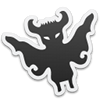
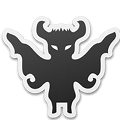
better bg

Changed region(s): [[0.0, 0.09, 1.0, 1.0], [0.99, 0.24, 1.0, 0.27]]

diff --git a/css/chupacabras.css b/css/chupacabras.css
@@ -16,8 +16,8 @@ html, body {
 
 ._contents {
 background:
-   url(../img/chupacabra_1.png) no-repeat 100% 103%,
-   url(../img/bg_main.gif) repeat 0 0;
+   url(../img/chupacabra_1.png) no-repeat right 105%,
+   url(../img/animal.png) repeat 0 0;
 }
 
 x-view > header,
@@ -60,7 +60,7 @@ x-view > header h1, h1 {
   font-weight: bold;
   font-family: "Gill Sans", "Gill Sans MT", Calibri, sans-serif;
   font-size: 15px;
-  border-top: 1px solid #666;
+  border-top: 1px solid #ddd !important;
 }
 
 x-listview.list li::before {
@@ -118,7 +118,7 @@ input[type='text'] {
   border: 1px solid #ddd;
   margin: 0;
   display: block;
-  width: 94%;
+  width: 97%;
 }
 
 input[type='button'] {

diff --git a/index.html b/index.html
@@ -36,7 +36,7 @@
 
           <form id="rss_form">
             <input type="text" name="rss_url" id="rss_field" placeholder="http://"/>
-            <input type="button" onclick="storeRSS()" value="Add URL" id="rss_button" />
+            <input type="button" onclick="storeRSS()" value="Feed it" id="rss_button" />
           </form>
 
           <footer>
